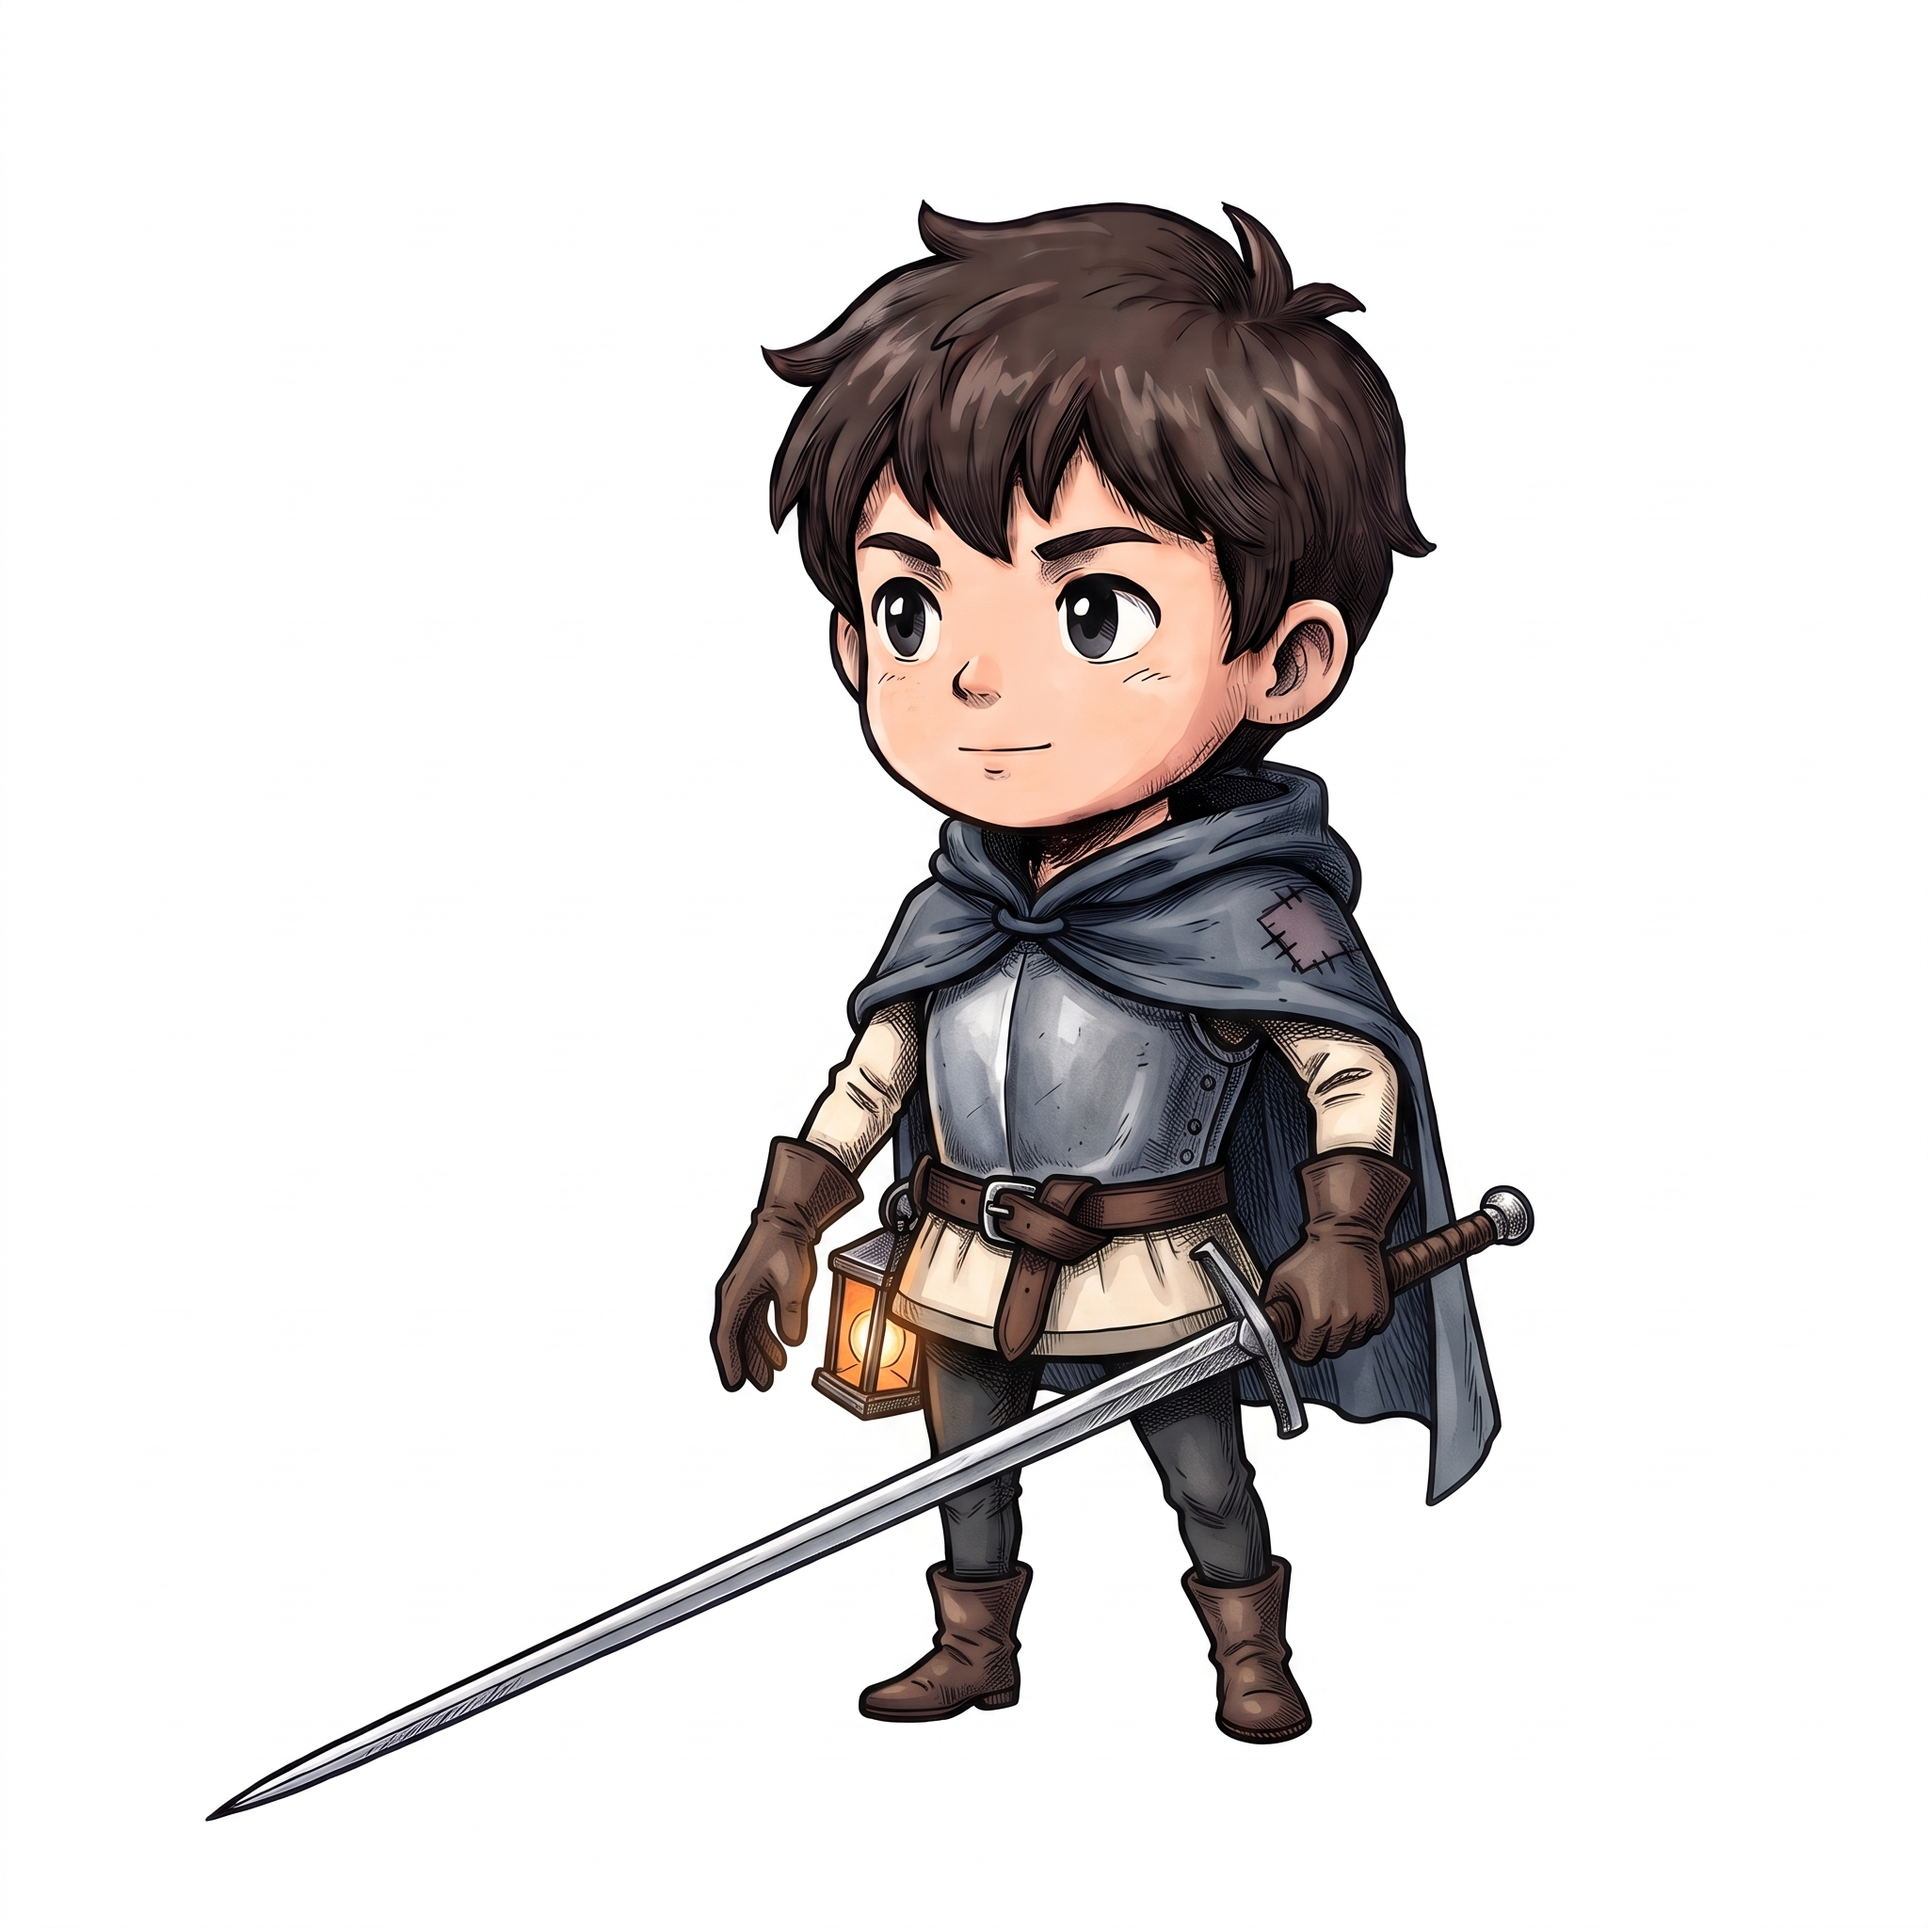
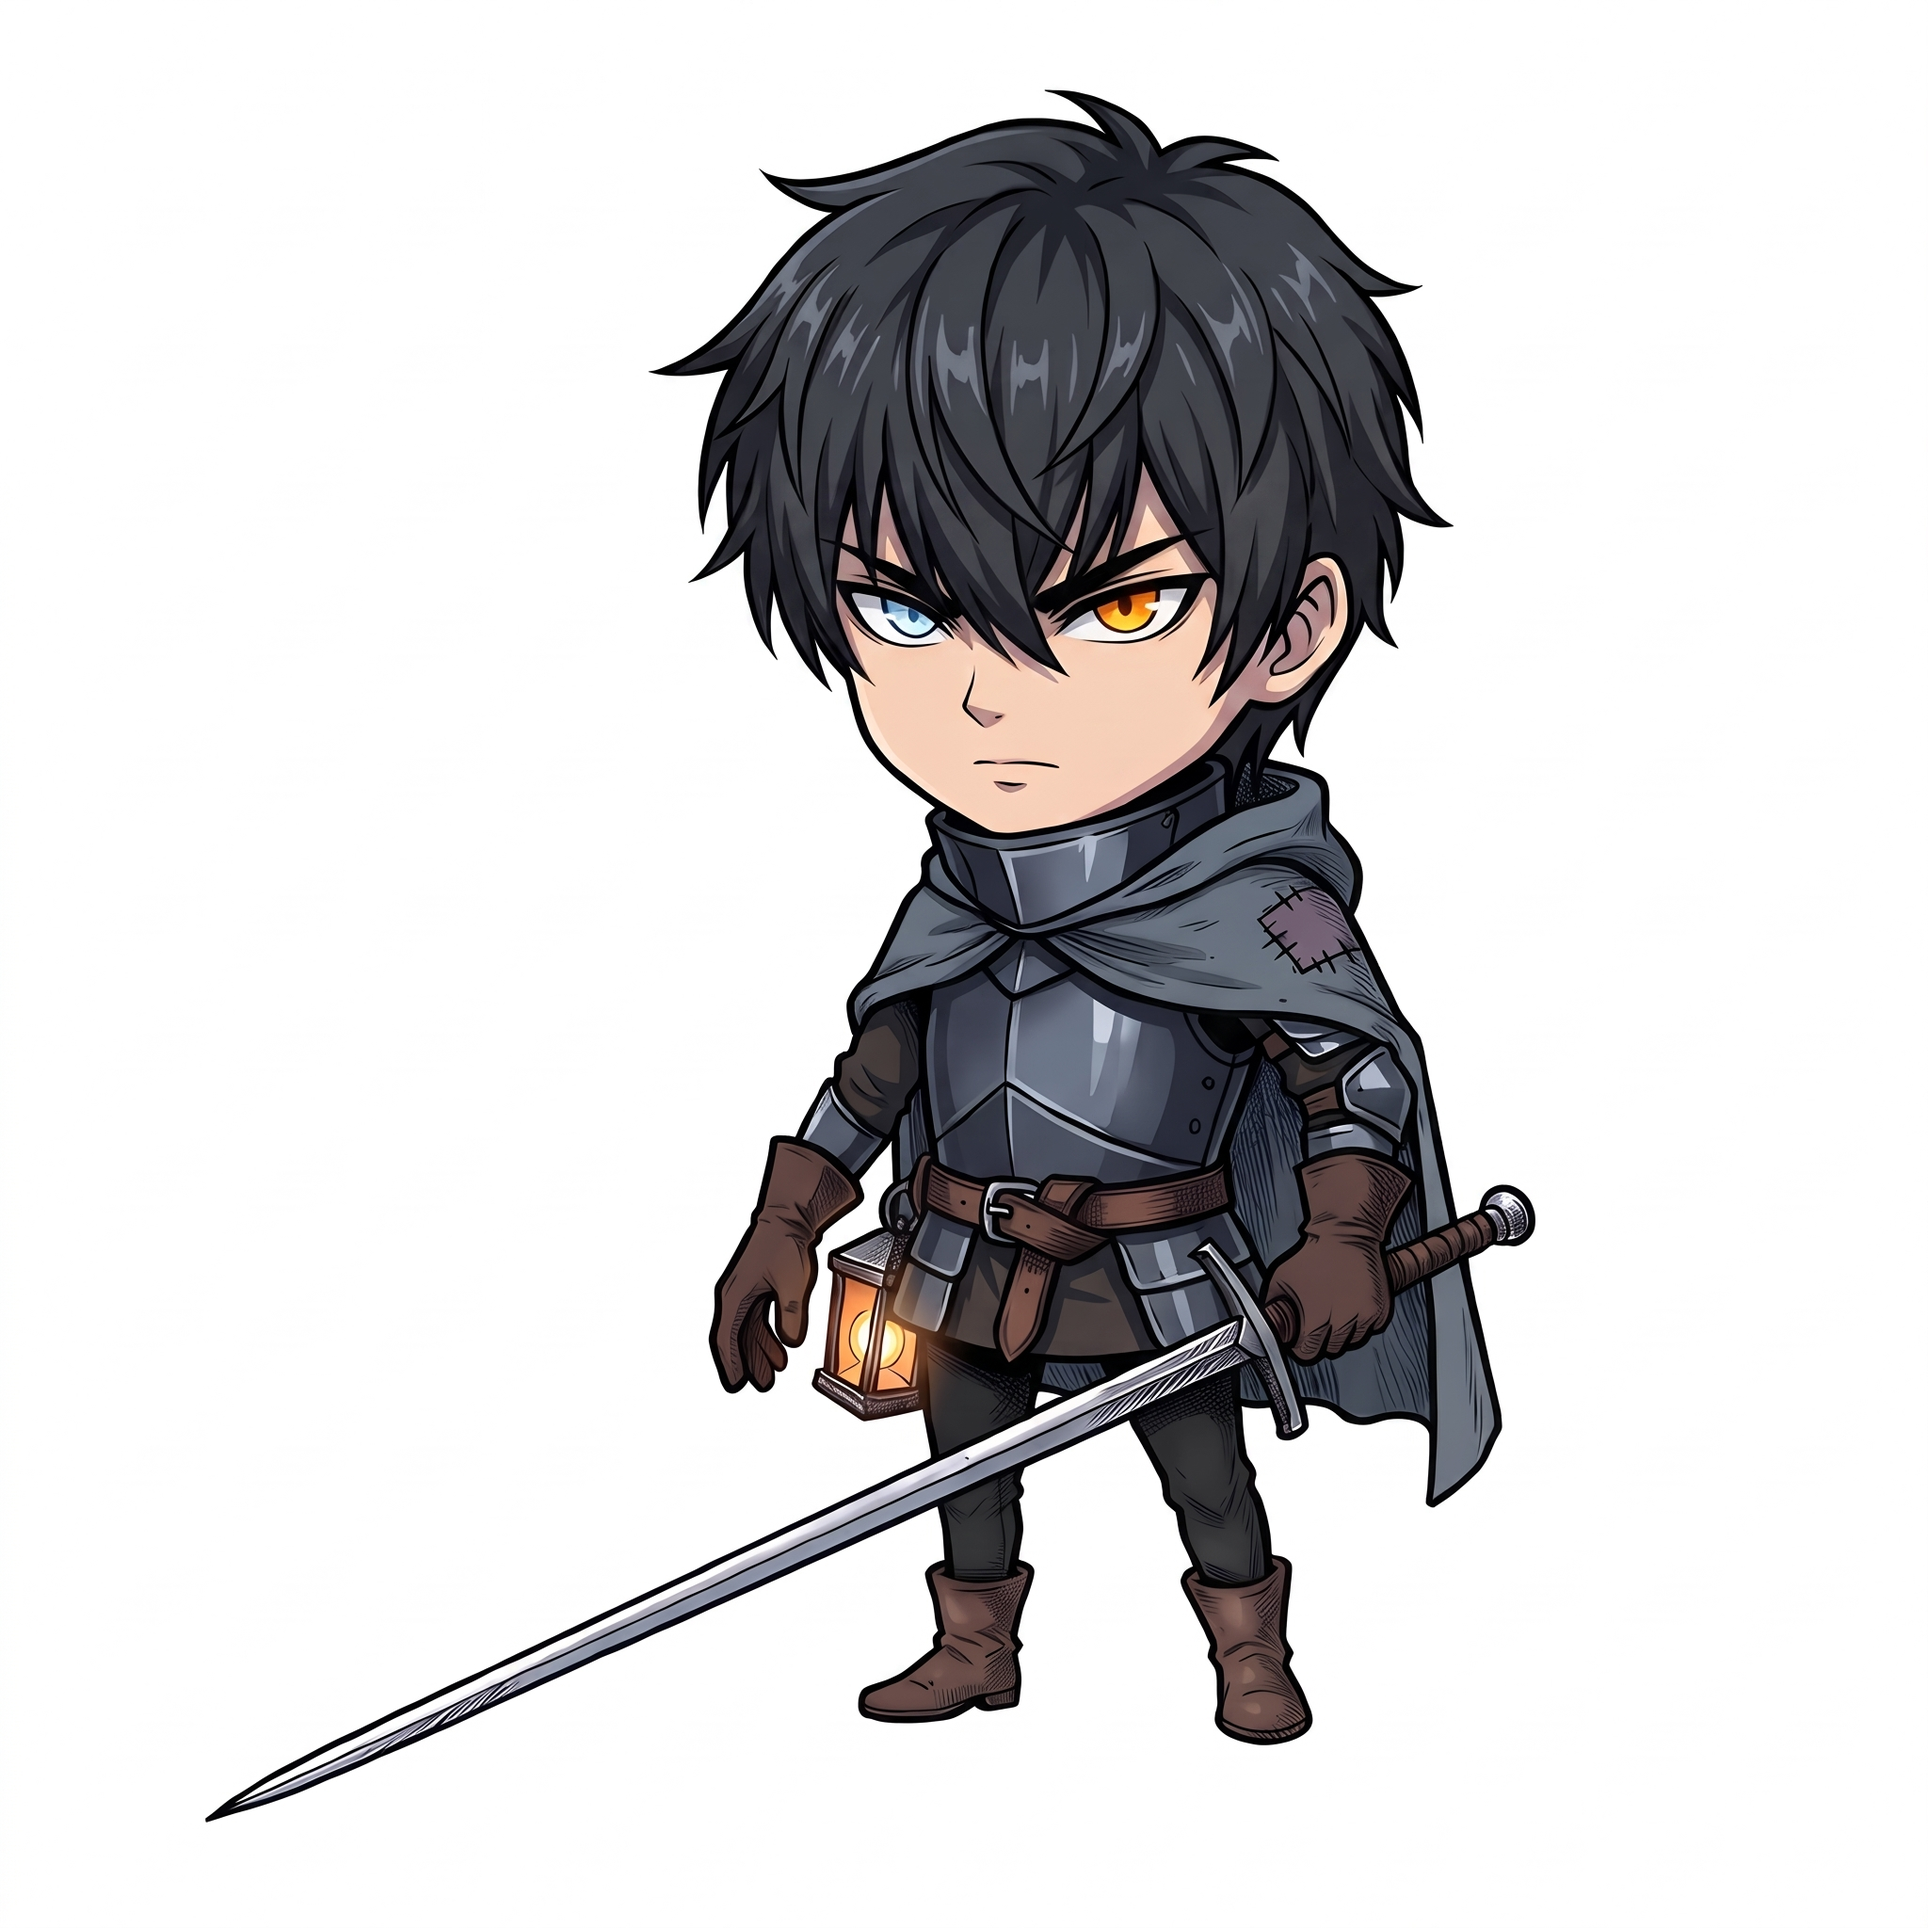
새 얼굴의 기본 남자 기사 적용
Claude-Session: https://claude.ai/code/session_019ctizXkAJK8e2QXDcDEkS2

Changed region(s): [[0.1875, 0.0312, 0.8125, 0.9062], [0.125, 0.9062, 0.1875, 0.9375]]

diff --git a/index.html b/index.html
@@ -306,7 +306,7 @@ const HEADS = [
 //   lanternPx: 허리 등불의 한가운데.  footPx: 두 발 사이의 x.  figurePx: 발끝에서 머리끝까지의 높이(화면 키 190에 맞춘다)
 const ARMORS = [
   { id:'basic', name:'기본', how:'처음부터', img:{ m:'art/knight/기본-남.png', f:'art/knight/기본-여.png' },
-    at:{ m:{ lanternPx:[459, 711], footPx:576, figurePx:819, eyesPx:[[482, 328], [583, 328]] }, f:{ lanternPx:[459, 711], footPx:576, figurePx:845, eyesPx:[[482, 330], [584, 330]] } }, ok:() => true },
+    at:{ m:{ lanternPx:[458, 707], footPx:576, figurePx:878, eyesPx:[[477, 323], [601, 323]] }, f:{ lanternPx:[459, 711], footPx:576, figurePx:845, eyesPx:[[482, 330], [584, 330]] } }, ok:() => true },
   { id:'armor2', name:'준비 중인 갑옷', how:'1구역 보스 처치', img:null, ok:() => false },
   { id:'armor3', name:'준비 중인 갑옷', how:'업적 · 이벤트', img:null, ok:() => false },
 ];
